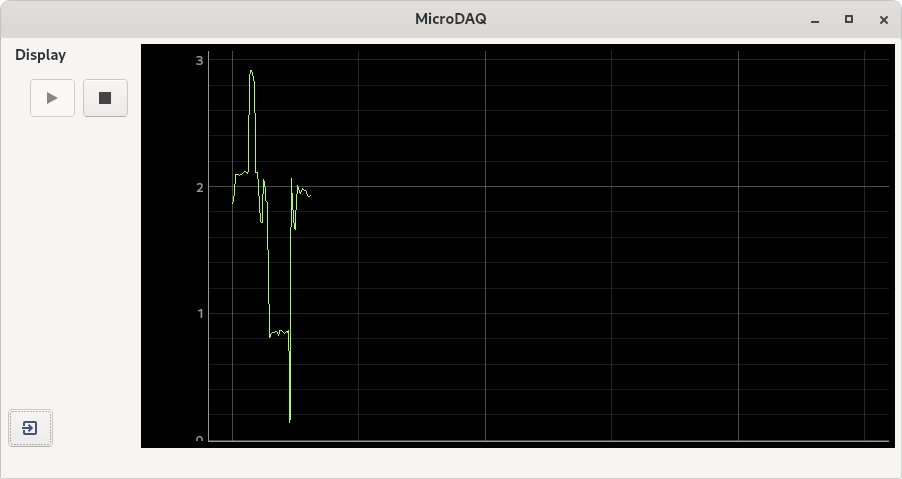
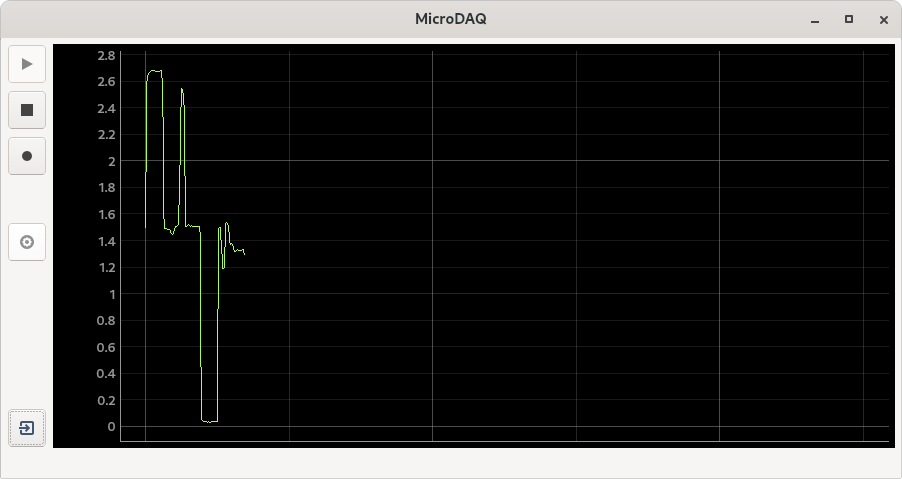
Updated examples in readme

Changed region(s): [[0.0, 0.0877, 0.9933, 0.9353]]

diff --git a/microdaq.py b/microdaq.py
@@ -3,16 +3,17 @@
 #
 # Copyright (c) 2021 Antonio González
 
-from PyQt5 import (QtCore, QtGui, QtWidgets)
 from datetime import datetime
 from itertools import count
-from serial import Serial, SerialException
-from serial.tools import list_ports
-import numpy as np
 import os
-import pyqtgraph as pg
 import sys
 import time
+
+import numpy as np
+from PyQt5 import (QtCore, QtGui, QtWidgets)
+import pyqtgraph as pg
+from serial import Serial, SerialException
+from serial.tools import list_ports
 
 from ui.ui_main import Ui_MainWindow
 from ui.ui_settings_dlg import Ui_Dialog

diff --git a/README.md b/README.md
@@ -6,7 +6,19 @@ Read and plot serial data from a microcontroller.
 
 ## Usage
 
-1. Connect your microcontroller to your "master" computer [1]. Set up the microcontroller to send data over the serial port (typically with `print` or `printf`). For example, with this micropython code analog data is read and printed every 500 ms:
+1. Connect your microcontroller to the "master" computer. Set up the microcontroller to send data over the serial port (typically with `print` or `printf`).
+
+1. Run `python microdaq.py` on the "master" computer.
+
+1. Open the settings and set baud rate and port if necessary.
+
+![GUI](img/gui_overview.png)
+
+1. Click the "play" button to plot. Click the "recording" button to save the data. The data will be saved to the default directory set in eth settings dialog. The file name will be made up of the current date and time. The file format will be plain text (space-separated if more than one column).
+
+### Example 1
+
+A light-dependent resistor (aka photoresistor) was connected to a Raspberry Pico (adc pin 26) in order to measure the relative intensity of ambient light. The micropython code was set to read and print the measured voltage every 500 ms:
 
 ```python
 from machine import ADC
@@ -24,13 +36,14 @@ while True:
     utime.sleep_ms(500)
 ```
 
-In this particular example, a photoresistor (a light-dependent resistor) was connected to Raspberry Pico (adc pin 26) in order to measure the relative intensity of ambient light.
-
-2. Run `python microdaq.py` on the "master" computer. Click the "play" button to plot the data from the microcontroller. In this example the y-axis units are volts (as established in the micropython code above when adc values are converted to voltage before printing):
+Running `python microdaq.py` on the "master" computer and clicking "play" button shows in real time the data from the microcontroller. In this example the y-axis units are volts (as established in the micropython code above when adc values are converted to voltage before printing).
 
 ![One signal](img/one_signal.png)
 
-3. More that one signal can be plotted simultaneously. Just set your microcontroller to print more than one value as needed. For example, to the Pico above one (analog) thermometer was connected to adc pin 28. The micropython code is now:
+
+### Example 2
+
+More that one signal can be plotted simultaneously by just setting the microcontroller to print more than one value as needed. In this example, one (analog) thermometer was connected (adc pin 28) to the same Raspberry Pico as above. The micropython code is now:
 
 ```python
 from machine import ADC
@@ -61,13 +74,37 @@ Running `microdaq` will detect and plot the two signals. In this figure, the top
 ![Two signals](img/two_signals.png)
 
 
+### Example 3
+
+To test on an Arduino, this code was loaded to an Arduino Uno. The two values created must be printed on the same line, separated by a space:
+```c
+void setup() {
+  Serial.begin(9600);
+}
+
+float value = 0;
+int direction = 1;
+const float interval = 0.1;
+
+void loop() {
+  Serial.print(value);
+  Serial.print(' ');
+  Serial.println(sin(value));
+  value += (interval * direction);
+  if ((value < -PI) | (value > PI)) {
+    direction *= -1;
+  }
+  delay(50); // in ms
+}
+```
+
+MicroDAQ plots the two signals in real time:
+
+![Arduino traces](img/arduino_traces.png)
+
+
 ## Requirements
 
 * [NumPy](https://numpy.org/)
 * [PyQtGraph](http://pyqtgraph.org/)
 * [pySerial](https://github.com/pyserial/)
-
-
-## Notes
-
-[1] The baud rate and serial port are hardcoded as global variables in the `microdaq.py` file. These default values work well for a Raspberry Pico connected to a master computer running Linux. You may need to adjust these parameters according to your needs.
